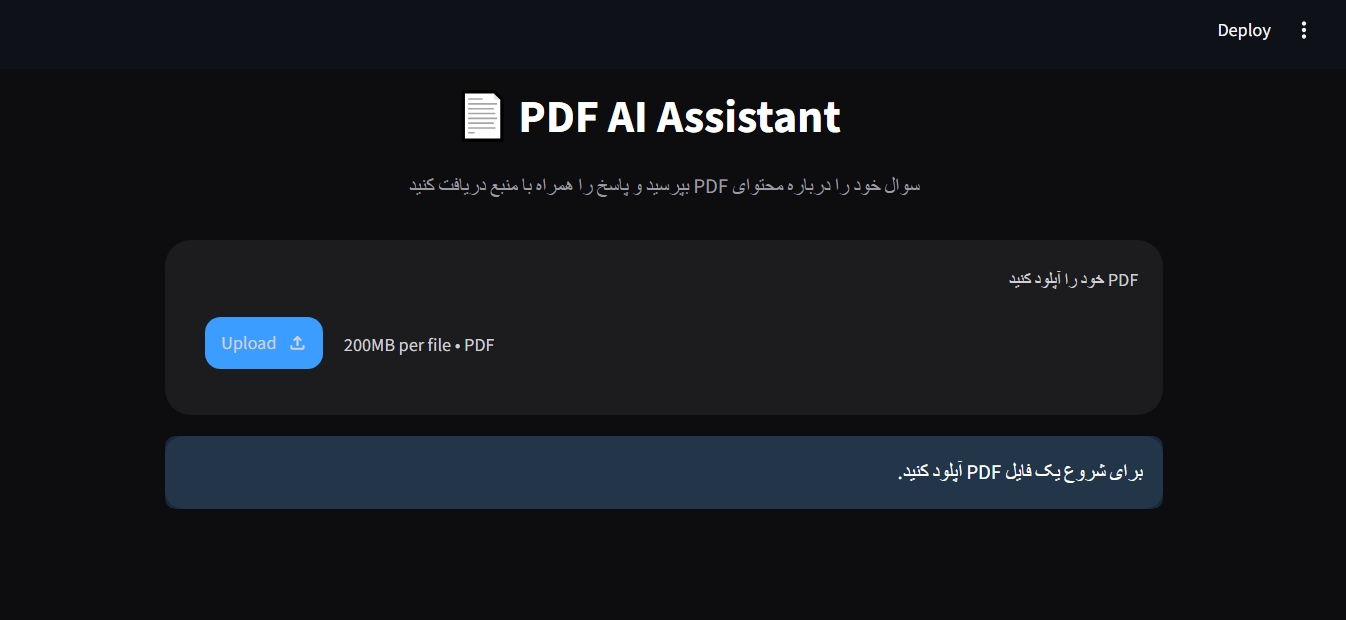
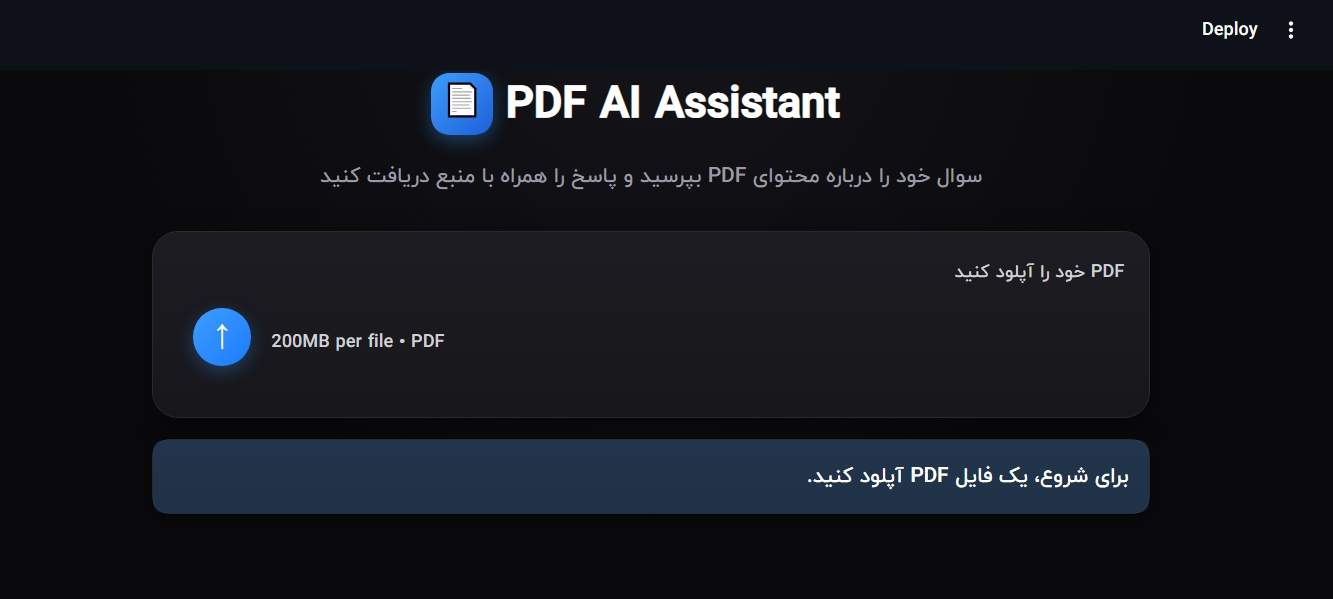
docs: update screenshots to reflect new UI design

diff --git a/README.md b/README.md
@@ -186,9 +186,11 @@ This project is not only about building a working application. Its goal is also 
 No license has been added yet.
 ## Screenshots
 
-![Upload and question](screenshot1.png)
+![Home page](screenshot1.png)
 
-![Answer with source](screenshot2.png)
+![PDF uploaded and question asked](screenshot2.png)
 
-![Full view](screenshot3.png)
+![Answer part 1](screenshot3.png)
+
+![Answer with source](screenshot4.png)
 
